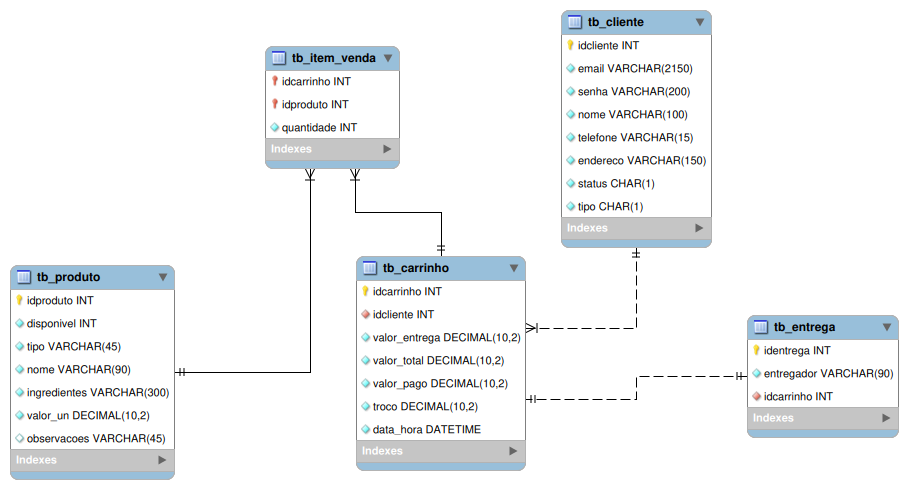
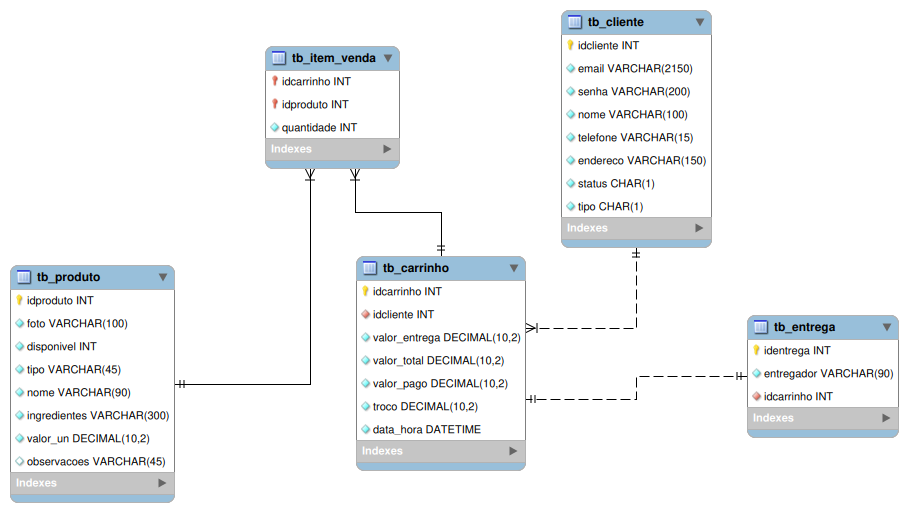
colocando foto em produto

diff --git a/tadw_e_dps_sanbenny/codigo/formCliente.php b/tadw_e_dps_sanbenny/codigo/formCliente.php
@@ -3,60 +3,53 @@
 <head>
     <meta charset="UTF-8">
     <meta name="viewport" content="width=device-width, initial-scale=1.0">
-    <title>Document</title>
-    <script src="jquery-3.7.1.min.js"></script>
-    <script src="jquery.validate.min.js"></script>
-    <script>
+    <title>Login</title>
+    <script src="./jquery-3.7.1.min.js"></script>
+    <script src="./jquery.validate.min.js"></script>
+<script>
     $(document).ready(function () {
-        $("#formulario").validate({
-            // regras para cada campo
-            rules: {
-                email: {
-                    required: true,
-                    email: true
-                },
-               
-                senha: {
-                    required: true,
-                    minlength: 6
-                }
+    $("#formulario_entrada").validate({
+        // regras para cada campo
+        rules: {
+            email_entrada: {
+                required: true,
+                email: true // Adiciona uma validação para garantir que o campo seja um e-mail válido
             },
-            // mensagens de erro para cada regra
-            messages: {
-                email: {
-                    required: "Você deve informar um e-mail",
-                    email: "Por favor, informe um e-mail válido"
-                },
-               
-                senha: {
-                    required: "Você deve informar uma senha",
-                    minlength: "A senha deve ter pelo menos 6 caracteres"
-                }
+            senha_entrada: {
+                required: true,
+                minlength: 3 // Você pode ajustar o comprimento mínimo de caracteres para a senha, se necessário
             }
-        })
+        },
+        // mensagens de erro para cada regra
+        messages: {
+            email_entrada: {
+                required: "Você deve informar um e-mail",
+                email: "Por favor, insira um e-mail válido"
+            },
+            senha_entrada: {
+                required: "Você deve informar uma senha",
+                minlength: "A senha deve ter no mínimo 3 caracteres"
+            }
+        }
     });
+});
 </script>
 <style>
-  .error {
-  color: blue;
- }
+        .error {
+            color: blue;
+        }
 </style>
 </head>
 <body>
-    <h1>Le Douce Amoux</h1>
-
-    <form id="login" action="verificarlogin.php" method="post">
+    <form id="formulario_entrada" action="verificarlogin.php" method="post">
         E-mail: <br>
-        <input type="text" name="email" id="email"> <br><br>
+        <input type="text" name="email_entrada" id="email_entrada"> <br><br>
+
         Senha: <br>
-        <input type="text" name="senha" id="senha"> <br><br>
+        <input type="password" name="senha_entrada" id="senha_entrada"><br><br>
 
-        <input type="submit" value="Acessar">
-
-            
-
-
+        <input type="submit" value="Cadastrar">
     </form>
+
 </body>
 </html>
-

diff --git a/tadw_e_dps_sanbenny/codigo/verificarlogin.php b/tadw_e_dps_sanbenny/codigo/verificarlogin.php
@@ -1,28 +1,27 @@
-
 <?php
     require_once "conexao.php";
     require_once "funcoes.php";
 
-    $email = $_POST['email'];
-    $senha = $_POST['senha'];
+    $email = $_POST['email_entrada'];
+    $senha = $_POST['senha_entrada'];
 
     $idcliente = verificarlogin($conexao, $email, $senha);
 
     if ($idcliente == 0) {
-        header("Location: formCliente.php");
+        header("Location: index.php");
     }
     else {
-        $usuario = pegarDadosUsuario($conexao, $idcliente);
+        $cliente = pegarDadosCliente($conexao, $idcliente);
         
-        if ($usuario == 0) {
-            header("Location: formCliente.php");
+        if ($cliente == 0) {
+            header("Location: ola.php");
         }
         else {
             session_start();
             $_SESSION['logado'] = 'sim';
-            $_SESSION['tipo'] = $usuario['tipo'];
-            $_SESSION['nome'] = $usuario['nome'];
-            header("Location: categorias.php");
+            $_SESSION['tipo'] = $cliente['tipo'];
+            $_SESSION['nome'] = $cliente['nome'];
+            header("Location: home.php");
         }
     }
 ?>

diff --git a/tadw_e_dps_sanbenny/codigo/funcoes.php b/tadw_e_dps_sanbenny/codigo/funcoes.php
@@ -389,17 +389,17 @@ function verificarlogin($conexao, $email, $senha) {
     
     $iduser = 0;
     if ($quantidade != 0) {
-        $usuario = mysqli_fetch_assoc($resultado);
-        $senha_banco = $usuario['senha'];
+        $cliente = mysqli_fetch_assoc($resultado);
+        $senha_banco = $cliente['senha'];
 
         if (password_verify($senha, $senha_banco)) {
-            $iduser = $usuario['idcliente'];
+            $iduser = $cliente['idcliente'];
         }
     }
     return $iduser;
 }
 
-function pegarDadosUsuario($conexao, $idcliente) {
+function pegarDadosCliente($conexao, $idcliente) {
     $sql = "SELECT nome, tipo FROM tb_cliente WHERE idcliente = ?";
 
     $comando = mysqli_prepare($conexao, $sql);
@@ -410,8 +410,8 @@ function pegarDadosUsuario($conexao, $idcliente) {
     $quantidade = mysqli_num_rows($resultado);
     
     if ($quantidade != 0) {
-        $usuario = mysqli_fetch_assoc($resultado);
-        return $usuario;
+        $cliente = mysqli_fetch_assoc($resultado);
+        return $cliente;
     }
     else {
         return 0;

diff --git a/tadw_e_dps_sanbenny/codigo/ola.php b/tadw_e_dps_sanbenny/codigo/ola.php
@@ -1,0 +1,1 @@
+olaaa
